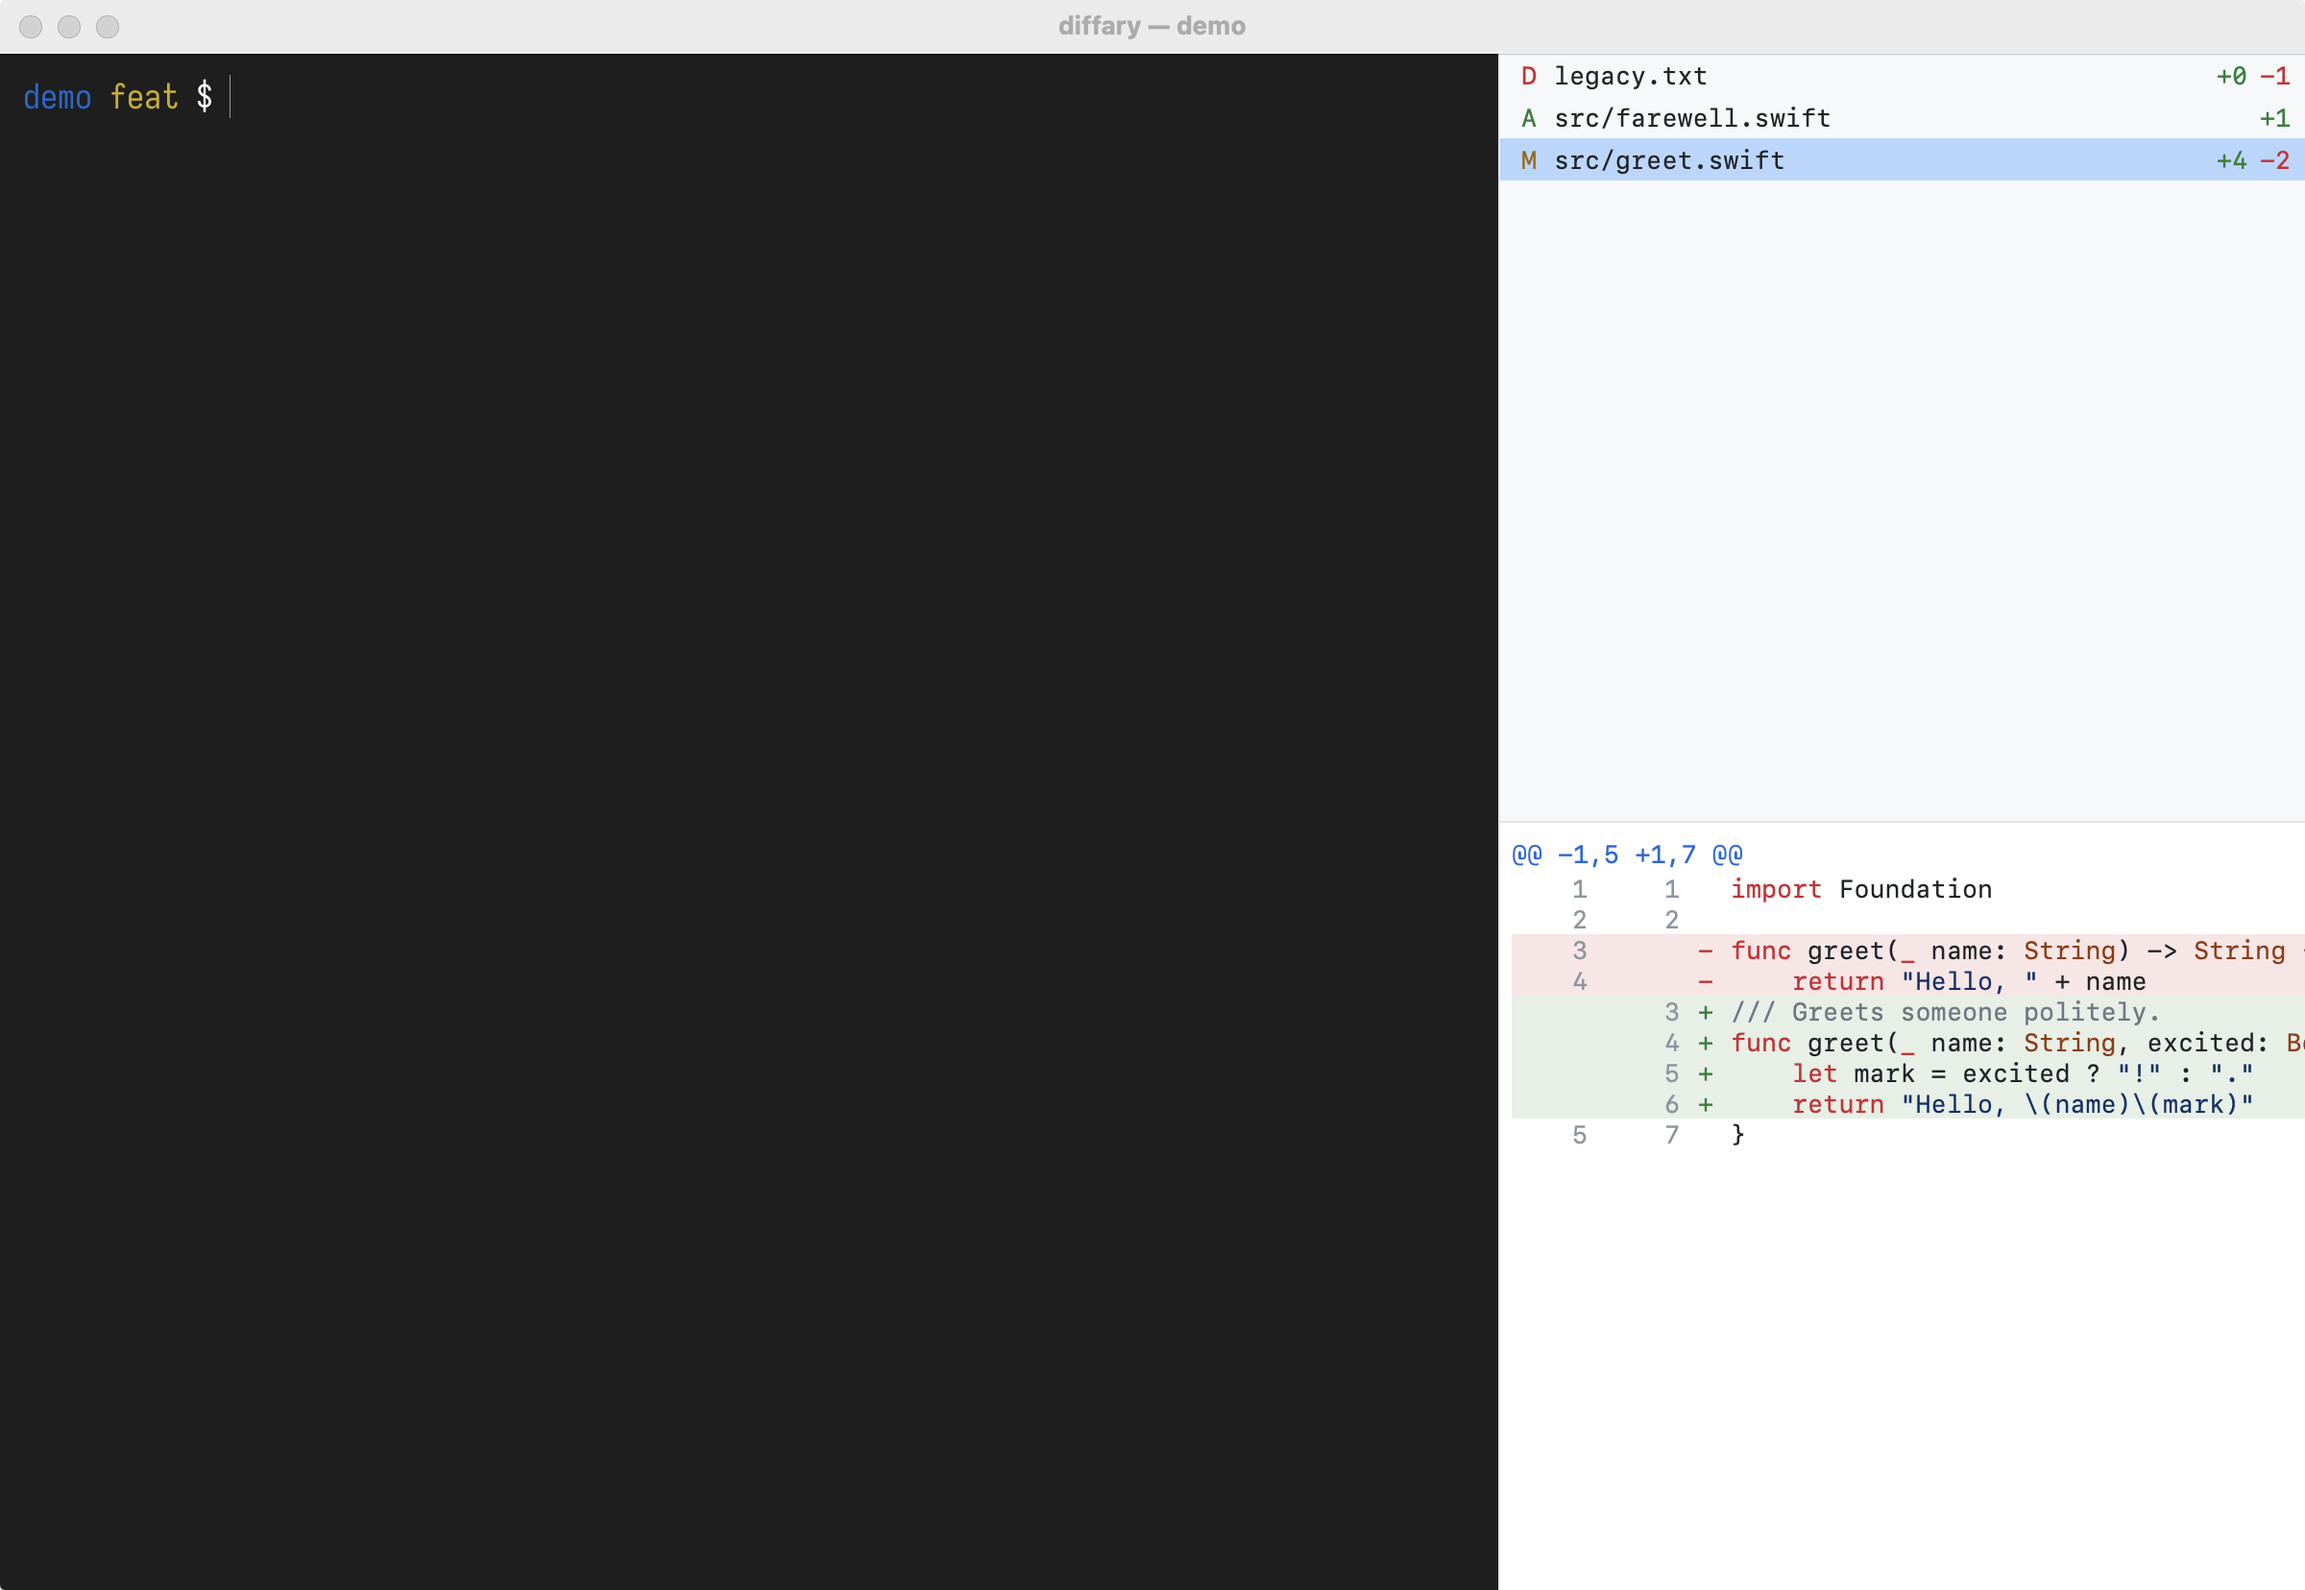
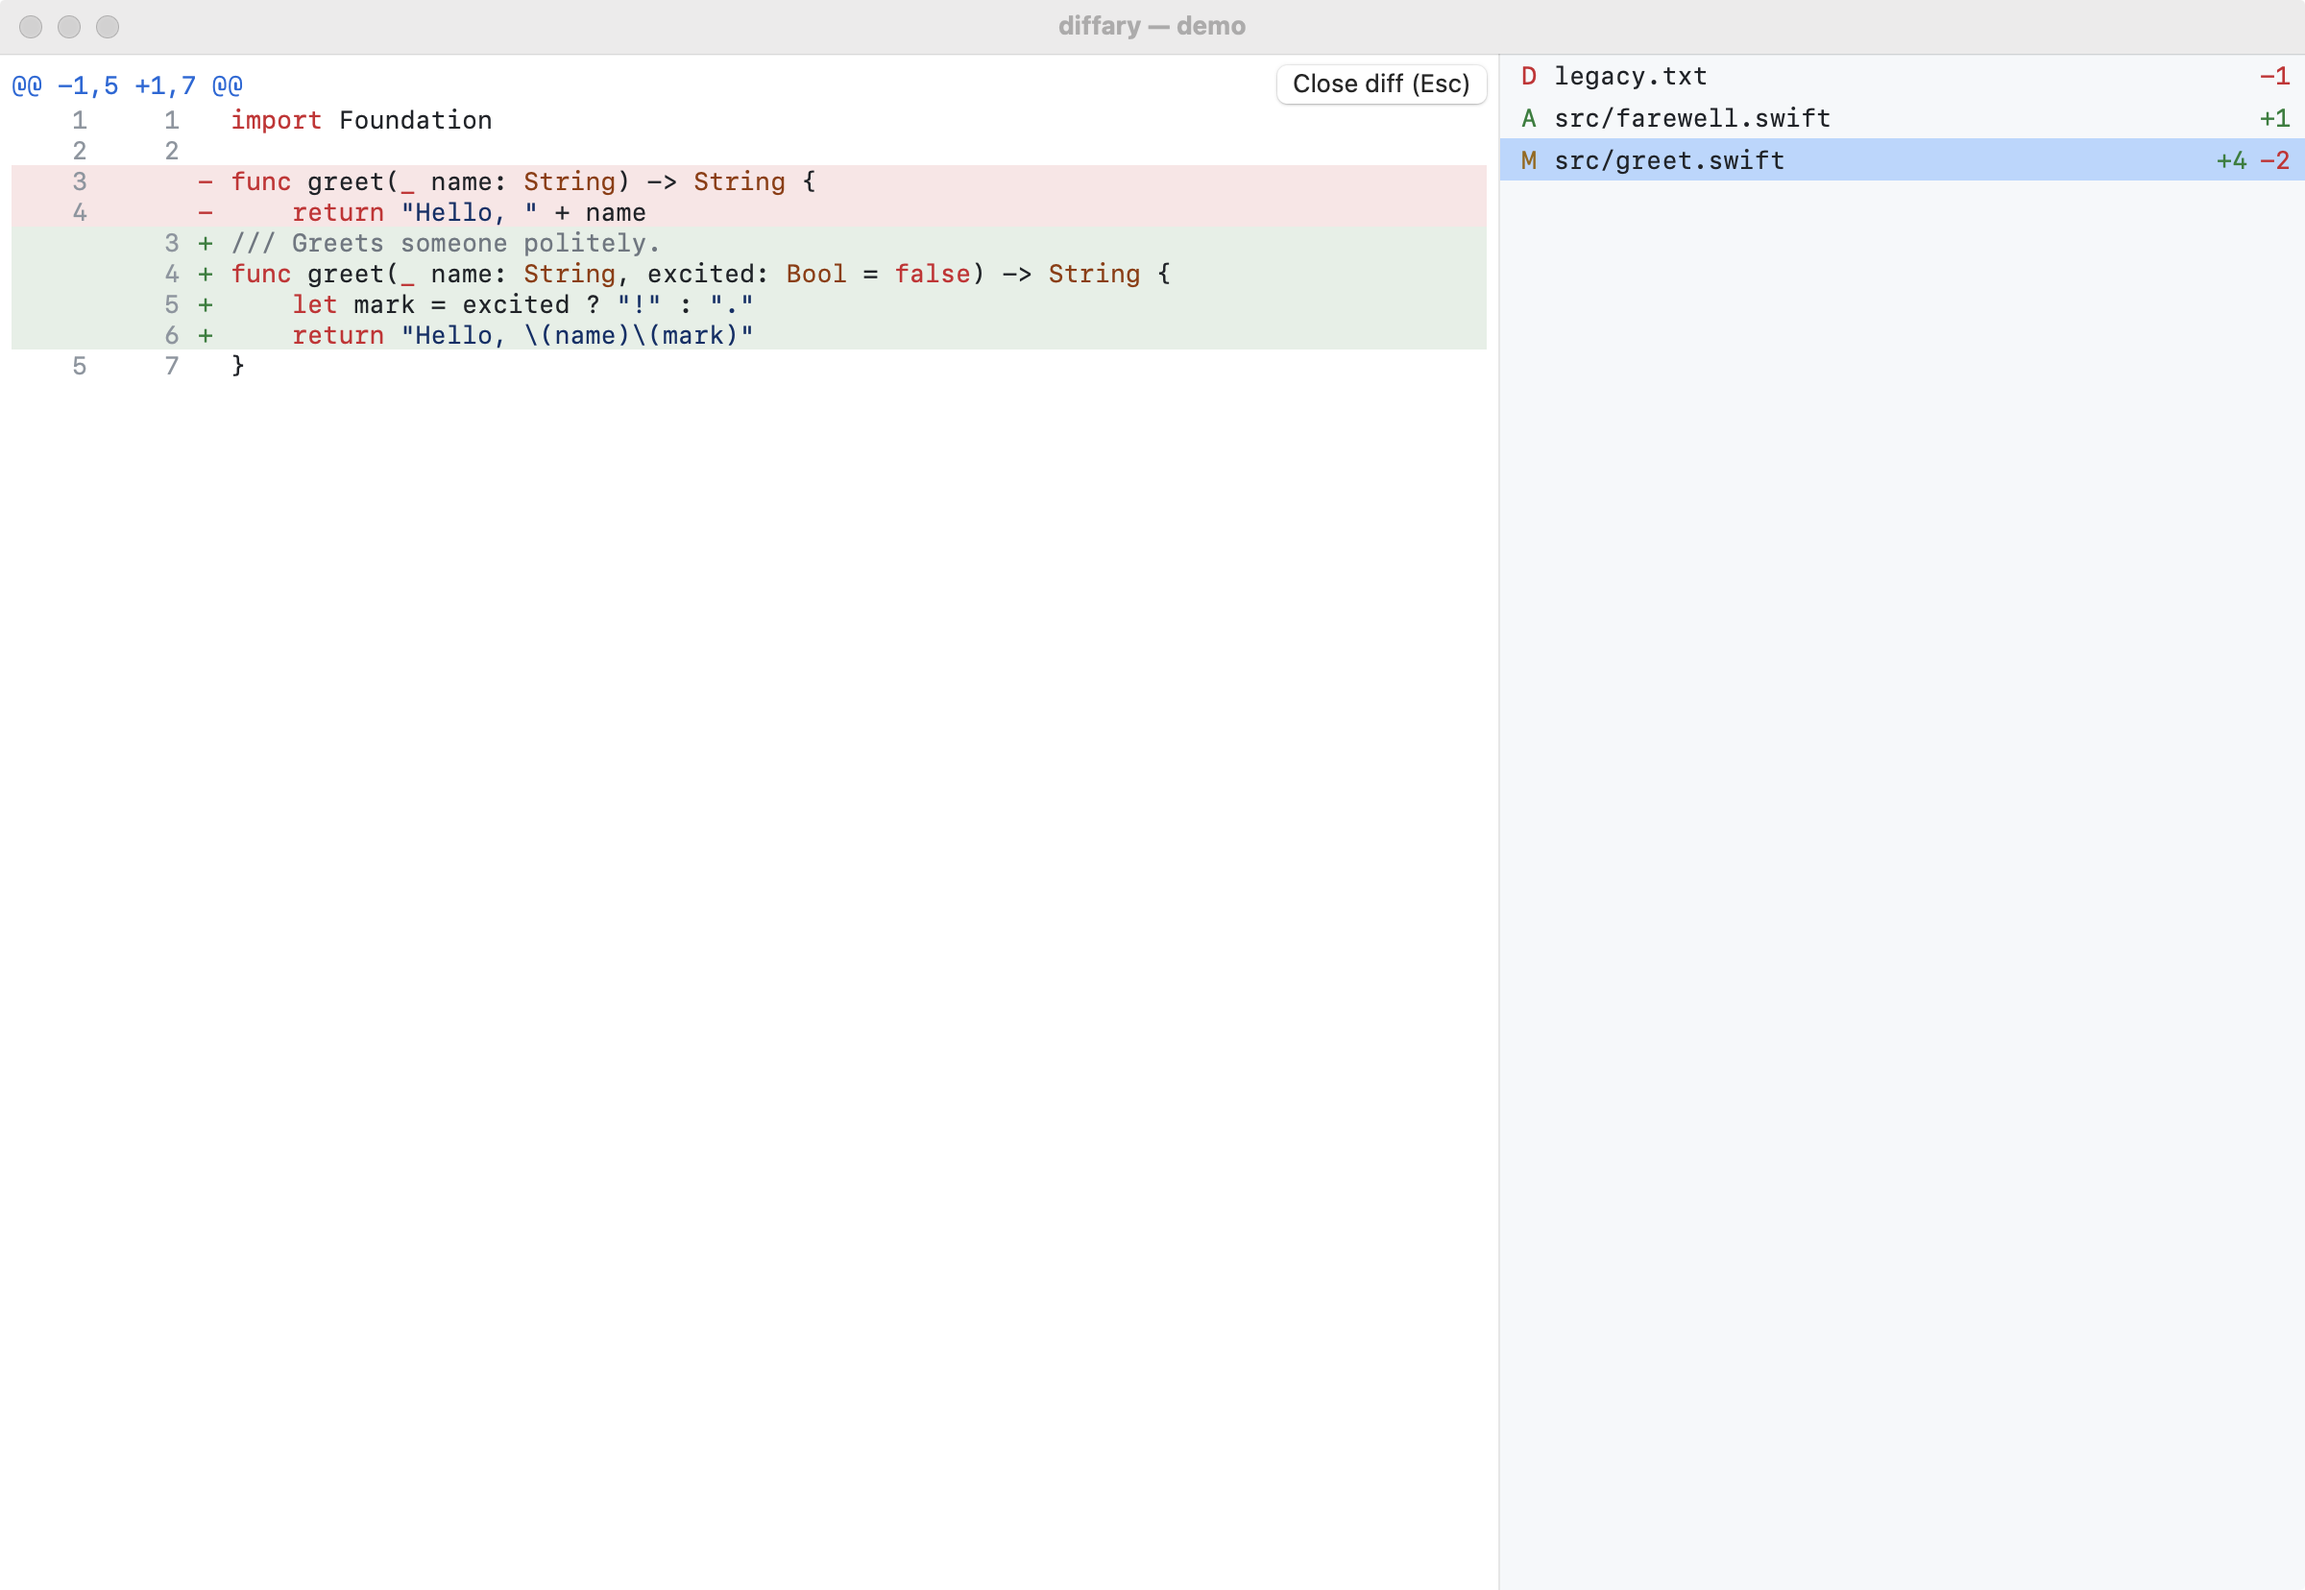
fix(app): size diff halves and unified rows to what they lay out
Widths are computed once in body and count every HStack gap: side-by-side
halves get a fixed, clipped width so both are equal and the divider is
straight. Tabs expand to 4 spaces in one helper used to measure and render.

diff --git a/Sources/Diffary/DiffView.swift b/Sources/Diffary/DiffView.swift
@@ -23,7 +23,13 @@ struct DiffView: View {
             case .empty?: placeholder("No differences with current options")
             case .text(let hunks)?:
                 GeometryReader { geo in
-                    let width = contentWidth(hunks, nsFont, viewport: geo.size.width)
+                    let textW = textWidth(hunks, nsFont)
+                    // half() lays out num, code, Spacer: 2 gaps.
+                    let halfW = max((geo.size.width - 2 * pad - 1) / 2, numW + 2 * gap + textW)
+                    // unifiedRow() lays out num, num, marker, code, Spacer: 4 gaps.
+                    let width = model.settings.diffView == .unified
+                        ? max(geo.size.width, 2 * pad + 2 * numW + markerW + 4 * gap + textW)
+                        : 2 * pad + 2 * halfW + 1
                     ScrollView([.vertical, .horizontal]) {
                         LazyVStack(alignment: .leading, spacing: 0) {
                             ForEach(Array(hunks.enumerated()), id: \.offset) { _, hunk in
@@ -33,9 +39,9 @@ struct DiffView: View {
                                 } else {
                                     ForEach(Array(hunk.sideBySideRows.enumerated()), id: \.offset) { _, row in
                                         HStack(spacing: 0) {
-                                            half(row.left, number: row.left?.oldNumber)
+                                            half(row.left, number: row.left?.oldNumber, width: halfW)
                                             Divider()
-                                            half(row.right, number: row.right?.newNumber)
+                                            half(row.right, number: row.right?.newNumber, width: halfW)
                                         }
                                     }
                                 }
@@ -52,17 +58,14 @@ struct DiffView: View {
         .background(Color(t.background))
     }
 
-    /// Every row is as wide as the viewport or the longest line, whichever is larger.
-    private func contentWidth(_ hunks: [Hunk], _ font: NSFont, viewport: CGFloat) -> CGFloat {
+    /// Width of the longest line on either side, as rendered (tabs expanded).
+    private func textWidth(_ hunks: [Hunk], _ font: NSFont) -> CGFloat {
         let advance = ("M" as NSString).size(withAttributes: [.font: font]).width
-        let chars = CGFloat(hunks.flatMap(\.lines).map { $0.text.count }.max() ?? 0)
-        let text = chars * advance
-        if model.settings.diffView == .unified {
-            return max(viewport, 2 * pad + 2 * numW + markerW + 3 * gap + text)
-        }
-        let half = max((viewport - 2 * pad - 1) / 2, numW + gap + text)
-        return 2 * pad + 2 * half + 1
+        return CGFloat(hunks.flatMap(\.lines).map { expandTabs($0.text).count }.max() ?? 0) * advance
     }
+
+    /// One tab = 4 spaces, for both measuring and rendering, so widths agree.
+    private func expandTabs(_ text: String) -> String { text.replacingOccurrences(of: "\t", with: "    ") }
 
     private func placeholder(_ s: String) -> some View {
         Text(s).foregroundStyle(Color(model.theme.lineNumber)).frame(maxWidth: .infinity, maxHeight: .infinity)
@@ -80,13 +83,14 @@ struct DiffView: View {
         .background(Color(bg(line.kind)))
     }
 
-    private func half(_ line: DiffLine?, number: Int?) -> some View {
+    private func half(_ line: DiffLine?, number: Int?, width: CGFloat) -> some View {
         HStack(spacing: gap) {
             num(number)
             if let line { code(line.text) } else { Text("") }
             Spacer(minLength: 0)
         }
-        .frame(maxWidth: .infinity, alignment: .leading)
+        .frame(width: width, alignment: .leading)
+        .clipped()
         .background(Color(line.map { bg($0.kind) } ?? RGBA(r: 0, g: 0, b: 0, a: 0)))
     }
 
@@ -96,7 +100,7 @@ struct DiffView: View {
     }
 
     private func code(_ text: String) -> some View {
-        codeText(text).lineLimit(1).fixedSize(horizontal: true, vertical: false)
+        codeText(expandTabs(text)).lineLimit(1).fixedSize(horizontal: true, vertical: false)
     }
 
     private func codeText(_ text: String) -> Text {
